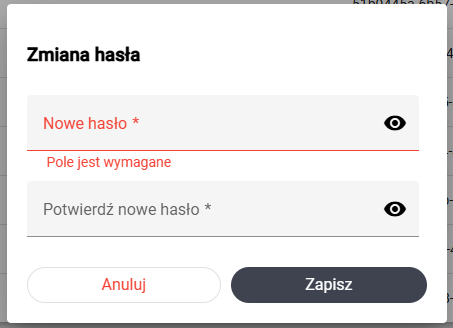
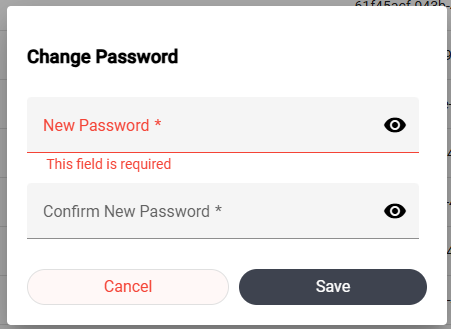
english respondents

diff --git a/docs/user_documentation/en/respondents/respondents.md b/docs/user_documentation/en/respondents/respondents.md
@@ -1,19 +1,18 @@
-# Respondenci
+# Respondents
 
-Aby przejść do modułu `Respondenci`, wybierz odpowiednią zakładkę w bocznym panelu po lewej stronie ekranu
+To access the `Respondents` module, select the appropriate tab in the left-side panel of the screen.
+
 ![alt text](imgs/turn_on.png)
 
+In this module, you can view, filter, and export respondent data. By default, the view displays all respondents in a grid.
 
-W tym module możesz przeglądać, filtrować oraz eksportować dane o respondentach. Domyślnie widok pokazuje wszystkich respondentów w siatce. 
+## Creating Respondent Accounts
 
-
-## Tworzenie kont respondentów
-
-W celu utworzenia kont respondentów, wciśnij przycisk `Utwórz konta dla respondentów`. Następnie podaj ilość, wciśnij `Utwórz`, a potem `Skopiuj do schowka`. 
+To create respondent accounts, press the `Create accounts for respondents` button. Then, specify the number of accounts, press `Create`, and then `Copy to clipboard`.
 
 ![alt text](imgs/create_accounts.png)
 
-W schowku powinny znajdować się teraz dane logowania do kont respondentów w formacie csv. Przykładowe dane logowania:
+The clipboard should now contain the login credentials for respondent accounts in CSV format. Example login data:
 
 ```csv
 username,password
@@ -21,91 +20,86 @@ username,password
 00009,cynamon-kasownik32
 ```
 
+## Pagination
 
-## Paginacja 
-
-Na dole strony możesz nawigować pomiędzy stronami siatki z danymi oraz określić rozmiar strony. 
+At the bottom of the page, you can navigate between pages of the data grid and set the page size.  
 
 ![alt text](imgs/pagination.png)
 
-## Kolumny
+## Columns
 
-W siatce dostępne są zawsze przynajmniej następujące kolumny z danymi:
-- Nazwa użytkownika
-- ID
+The grid always includes at least the following columns with data:
+- Username  
+- ID  
 
-Jeśli zdefiniowałeś ankietę początkową, to dla każdego pytania w ankiecie początkowej, będzie tutaj utworzona kolumna. Nagłówek tej kolumny to treść pytania, a wartości w poszczególnych komórkach to odpowiedzi udzielone przez respondentów. W naszym przykładzie w ankiecie początkowej utworzyłem pytanie "Płeć". 
+If you have defined an initial survey, a column will be created for each question in the survey. The column header will display the question text, and the values in the individual cells will be the respondents’ answers. For example, in the initial survey, I created a question "Sex"  
 
 ![alt text](imgs/columns.png)
 
-## Akcje
+## Actions
 
-W siatce widoczna jest dodatkowa kolumna `Akcje`. Nie zawiera ona danych, a umożliwia wykonanie następujących czynności na respondencie:
+The grid includes an additional `Actions` column. This column does not contain data but allows you to perform the following actions on a respondent:
 
-- edycja,
-- zmiana hasła
-- przeglądanie wyników
+- Edit
+- Change password
+- View results
 
 ![alt text](imgs/actions.png)
 
-#### Edycja
+#### Edit
 
-Edycja danych respondenta polega na edycji odpowiedzi udzielonych przez niego w ankiecie początkowej. Z tego powodu, opcja ta jest dostępna **wyłącznie** jeśli ankieta początkowa została opublikowana. Po wciśnięciu ikony ołówka, wyświetli się formularz, który umoliwi edycję danych. 
+Editing a respondent's data involves modifying the answers they provided in the initial survey. Therefore, this option is available **only** if the initial survey has been published. Clicking the pencil icon will display a form that allows you to edit the data.
 
 ![alt text](imgs/edit.png)
 
-#### Zmiana hasła
+#### Change Password
 
-Po wciśnięciu ikony klucza wyświetli się formularz zmiany hasła dla respondenta
+Clicking the key icon will display a form for changing the respondent's password.
 
 ![alt text](imgs/change_password.png)
 
-#### Wyniki respondenta
+#### Respondent Results
 
-Po wciśnięciu ikony z lupą, będziesz mógł wybrać, czy chcesz wyświetlić:
-- odpowiedzi na ankiety
-- dane lokalizacyjne na mapie
-- dane z czujników
+Clicking the magnifying glass icon will allow you to choose whether to view:
+- Survey responses
+- Geolocation data
+- Sensor data
 
-Wybranie którejś z tych opcji przekieruje cię do odpowiedniego modułu i ustawi w nim filtry tak, abyś mógł przeglądać dane dla wybranego respondenta. Więcej informacji znajdziesz w dokumencie poświęconym modułom `Wyniki`, `Czujniki temperatury`, `Mapa`
+Selecting one of these options will redirect you to the appropriate module and apply filters so you can view data for the chosen respondent. For more information, see the documentation for the `Results`, `Temperature sensors`, and `Map` modules.
 
-## Filtrowanie
+## Filtering
 
-W górnej części widoku dostępne są filtry, które pozwolą ci monitorować przebied badania. 
+At the top of the view, there are filters that allow you to monitor the progress of the study.
 
 ![alt text](imgs/filters.png)
 
-Jeśli na liście wyboru `Pokazuj resopndentów, którzy` nie wybierzesz żadnej wartości, wyświetleni zostaną wszyscy respondenci. 
+If you do not select any value in the `Show respondents who` dropdown, all respondents will be displayed.
 
-Poniżej znajduje się opis działania pozostałych filtrów
+Below is a description of the other filter options:
 
-#### Ominęli przynajmniej tyle ankiet
+#### Skipped at least this many surveys
 
-Wyświetleni zostaną respondenci, którzy w wybranym okresie czasu ominęli ilość ankiet wskazaną w polu `Ilość`. Np. jeśli 31.12.2024 zostały zaplanowane 3 ankiety, do filtr ten pozwoli znaleźć respondentów, któzy wypełnili tylko jedną, lub tylko dwie z nich. 
+This filter displays respondents who missed the number of surveys specified in the `Amount` field during the selected time period. For example, if three surveys were scheduled on December 31, 2024, this filter can help identify respondents who completed only one or two of them.
 
+#### Have sent less than this many location data points
 
-#### Wysłali mniej niż tyle danych lokalizacyjnych
+This filter displays respondents who sent fewer location data points than the number specified in the `Amount` field during the selected time period.
 
-Wyświetleni zostaną respondenci, którzy w wybranych okresie czasu wysłali mniej danych lokalizacyjnych, niż liczba wskazana w polu `Ilość`.
+#### Have sent less than this many sensor data
 
+This filter displays respondents who sent fewer temperature sensor data points than the number specified in the `Amount` field during the selected time period.
 
-#### Wysłalio mniej niż tyle danych z czujników
+## Exporting Data to a File
 
-
-Wyświetleni zostaną respondenci, którzy w wybranych okresie czasu wysłali mniej danych z czujników temperatury, niż liczba wskazana w polu `Ilość`.
-
-
-## Eksport danych do pliku
-
-Widok umożliwia eksport danych do pliku csv. W tym celu wciśnij przycisk `Eksportuj`. Przeglądarka pobierze odpowiedni plik. Przykłądowy plik z danymi:
+This view allows you to export data to a CSV file. To do this, click the `Export` button. Your browser will download the file. Below is an example of a data file:
 
 ```csv
-username,Płeć,id
-00001,mężczyzna,51b9445a-6b57-4d37-a809-65d6fa18eecf
-00002,kobieta,fcba4efb-e4e6-4d85-a301-5bd79d1e66b2
-00003,mężczyzna,2ae37e63-bbc5-4e29-bd49-6fb07054ab0c
-00004,mężczyzna,cbabacd8-8da4-43a5-8f43-b195605541f2
-00005,mężczyzna,97cad41a-781b-4607-a9f3-c33e54d29ab0
-00006,mężczyzna,bb00cf05-40de-4053-859e-808a3ac82e8e
-00007,kobieta,488e4982-d298-4dbc-a6b0-75fea3737ffc
+username,Sex,id
+00001,man,51b9445a-6b57-4d37-a809-65d6fa18eecf
+00002,woman,fcba4efb-e4e6-4d85-a301-5bd79d1e66b2
+00003,man,2ae37e63-bbc5-4e29-bd49-6fb07054ab0c
+00004,man,cbabacd8-8da4-43a5-8f43-b195605541f2
+00005,man,97cad41a-781b-4607-a9f3-c33e54d29ab0
+00006,man,bb00cf05-40de-4053-859e-808a3ac82e8e
+00007,woman,488e4982-d298-4dbc-a6b0-75fea3737ffc
 ```
